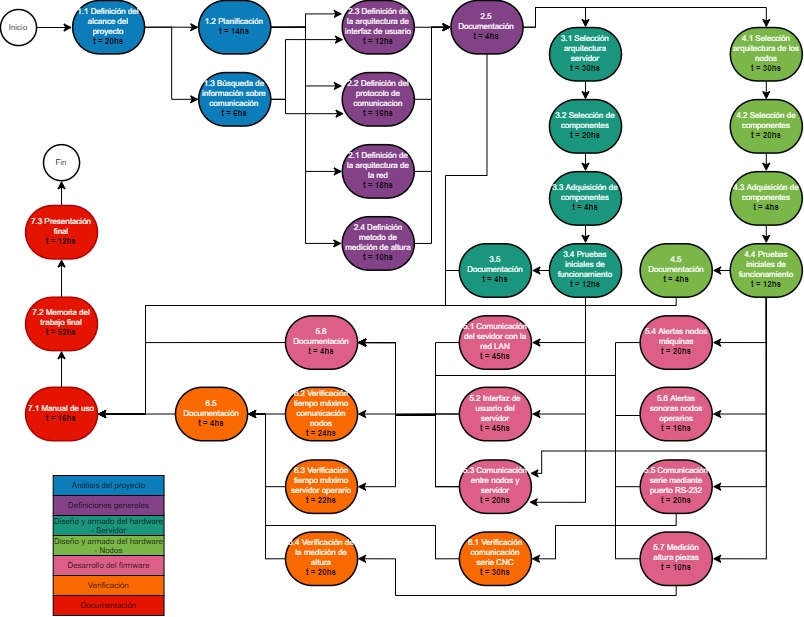
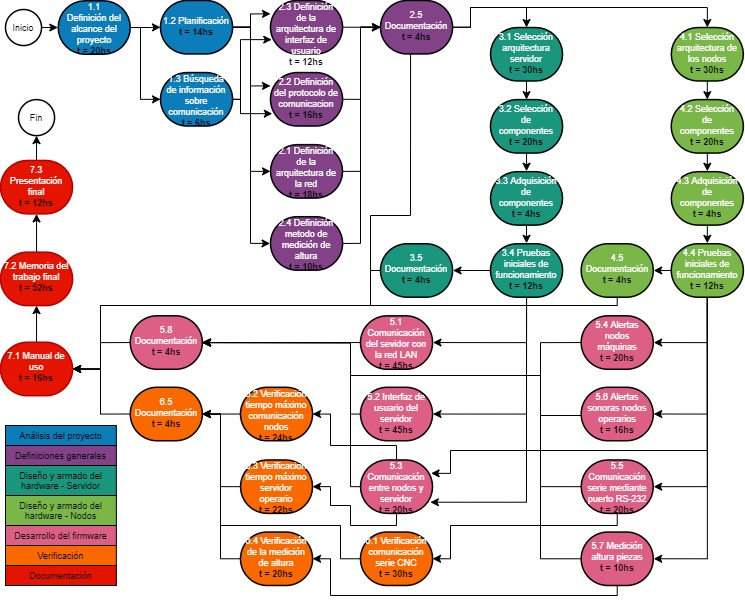
Se agrego hasta el punto 17

diff --git a/charter.tex b/charter.tex
@@ -67,7 +67,8 @@ Revisión & \multicolumn{1}{c|}{\cellcolor[HTML]{C0C0C0}Detalles de los cambios 
 1.2      & Se corrigió la descripción técnica\newline
            Se terminó el punto 6\newline
            Se agregaron historias de usuario & 23/03/2021 \\ \hline
-1.3      & Se agrego hasta el punto 11      & 30/03/2021  \\ \hline      
+1.3      & Se agregó hasta el punto 11      & 30/03/2021  \\ \hline
+1.4     & Se agregó hasta el punto 17       & 6/4/2021 \\ \hline
 \end{tabularx}
 \end{table}
 
@@ -84,7 +85,7 @@ Buenos Aires, \fechaInicioName
 
 \vspace{2cm}
 
-Por medio de la presente se acuerda con el Ing. \authorname\hspace{1px} que su Trabajo Final de la \degreename\hspace{1px} se titulará ``\ttitle'', consistirá esencialmente en el prototipo preliminar de una red de nodos, cada uno con una función específica, para reducir los tiempos muertos y mejorar el flujo de información dentro de una industria, y tendrá un presupuesto preliminar estimado de 600 hs de trabajo, con fecha de inicio \fechaInicioName\hspace{1px} y fecha de presentación pública \fechaFinalName.
+Por medio de la presente se acuerda con el Ing. \authorname\hspace{1px} que su Trabajo Final de la \degreename\hspace{1px} se titulará ``\ttitle'', consistirá esencialmente en el prototipo preliminar de una red de nodos, cada uno con una función específica, para reducir los tiempos muertos y mejorar el flujo de información dentro de una industria, y tendrá un presupuesto preliminar estimado de 600 hs de trabajo y u\$s 9035, con fecha de inicio \fechaInicioName\hspace{1px} y fecha de presentación pública \fechaFinalName.
 
 Se adjunta a esta acta la planificación inicial.
 
@@ -499,10 +500,10 @@ Descripción &
 \rowcolor[HTML]{C0C0C0} 
 \multirow{-2}{*}{\cellcolor[HTML]{C0C0C0}\begin{tabular}[c]{@{}c@{}}Código\\ WBS\end{tabular}} &
   \multirow{-2}{*}{\cellcolor[HTML]{C0C0C0}Nombre de la tarea} &
-  \authorname &
+  F. Meghinasso &
   \supname &
-  Matias Meghinasso &
-  \clientename \\ \hline
+  M. Meghinasso &
+  R. Meghinasso \\ \hline
 1 & Análisis del proyecto & P & C & - & S \\ \hline
 2 & Definiciones generales & P & C & - & - \\ \hline
 3.1 & Estudio y elección arquitectura servidor & P & C & S & - \\ \hline
@@ -538,31 +539,34 @@ Referencias:
 \section{12. Gestión de riesgos}
 \label{sec:riesgos}
 
-\begin{consigna}{red}
-a) Identificación de los riesgos (al menos cinco) y estimación de sus consecuencias:
- 
-Riesgo 1: detallar el riesgo (riesgo es algo que si ocurre altera los planes previstos)
+Riesgo 1: No cumplir con los plazos de entrega establecidos.
 \begin{itemize}
-\item Severidad (S): mientras más severo, más alto es el número (usar números del 1 al 10).\\
-Justificar el motivo por el cual se asigna determinado número de severidad (S).
-\item Probabilidad de ocurrencia (O): mientras más probable, más alto es el número (usar del 1 al 10).\\
-Justificar el motivo por el cual se asigna determinado número de (O). 
-\end{itemize}   
-
-Riesgo 2:
-\begin{itemize}
-\item Severidad (S): 
-\item Ocurrencia (O):
+    \item Severidad (S):7, se retrasaría la entrega de todo el trabajo.
+    \item Ocurrencia (O):3, la empresa esta interesada en que se termine el trabajo lo más rápido posible por lo que le permitirá al responsable emplear el tiempo que le sea necesario durante la jornada laboral.
 \end{itemize}
 
-Riesgo 3:
+Riesgo 2: Demoras en la adquisición de los componentes.
 \begin{itemize}
-\item Severidad (S): 
-\item Ocurrencia (O):
+    \item Severidad (S):8, sin los componentes necesarios se frena el proyecto completo.
+    \item Ocurrencia (O):3, los componentes necesarios no son tas específicos y se pueden conseguir reemplazos. 
+\end{itemize}
+Riesgo 3: Dificultades para establecer una comunicación inalámbrica debido al ruido electromagnético presente en la fábrica.
+\begin{itemize}
+    \item Severidad (S):10, sin la comunicación inalámbrica el proyecto se vuelve muy difícil de implementar.  
+    \item Ocurrencia (O):2, hoy en se utiliza una red vía \textit{Wi-Fi} y la misma no presenta mayores problemas.
+\end{itemize}
+Riesgo 4: No encontrar un método adecuado para estimar la cantidad de piezas en los cajones.
+\begin{itemize}
+    \item Severidad (S):5, la cantidad de piezas se podría sumar o restar de forma manual según corresponda.
+    \item Ocurrencia (O):4, el mercado ofrece muchas opciones diferentes para hacer este tipo de mediciones.
+\end{itemize}
+Riesgo 5: No tener disponibilidad de máquina para hacer las pruebas correspondientes.
+\begin{itemize}
+    \item Severidad (S):6, si no se dispone de una maquina se complica hacer las pruebas necesarias, en particular las de CNC.
+    \item Ocurrencia (O):6, por lo general las maquinas están ocupadas y el único momento que quedan disponibles es cuando se hacen los cambios de pieza.
 \end{itemize}
 
 
-b) Tabla de gestión de riesgos:      (El RPN se calcula como RPN=SxO)
 
 \begin{table}[htpb]
 \centering
@@ -570,55 +574,58 @@ b) Tabla de gestión de riesgos:      (El RPN se calcula como RPN=SxO)
 \hline
 \rowcolor[HTML]{C0C0C0} 
 Riesgo & S & O & RPN & S* & O* & RPN* \\ \hline
-       &   &   &     &    &    &      \\ \hline
-       &   &   &     &    &    &      \\ \hline
-       &   &   &     &    &    &      \\ \hline
-       &   &   &     &    &    &      \\ \hline
-       &   &   &     &    &    &      \\ \hline
+   No cumplir con los plazos de entrega establecidos   & 7  &  3 &  21   &    &    &      \\ \hline
+   Demoras en la adquisición de los componentes  & 8  & 3  &    24 &    &    &      \\ \hline
+   Dificultades para establecer una comunicación inalámbrica   & 10  & 2  & 20    &    &    &      \\ \hline
+   No encontrar un método adecuado para estimar la cantidad de piezas  & 5  & 4  &   20  &    &    &      \\ \hline
+     No tener disponibilidad de máquina para hacer las pruebas correspondientes  & 6  &  6 &    36 &  6  &  4  &   24   \\ \hline
 \end{tabularx}%
 \end{table}
 
-Criterio adoptado: 
-Se tomarán medidas de mitigación en los riesgos cuyos números de RPN sean mayores a...
+Se tomaran medidas de mitigación en los riesgos cuyo RPN sea mayor a 30.
 
-Nota: los valores marcados con (*) en la tabla corresponden luego de haber aplicado la mitigación.
-
-c) Plan de mitigación de los riesgos que originalmente excedían el RPN máximo establecido:
- 
-Riesgo 1: plan de mitigación (si por el RPN fuera necesario elaborar un plan de mitigación).
-  Nueva asignación de S y O, con su respectiva justificación:
-  - Severidad (S): mientras más severo, más alto es el número (usar números del 1 al 10).
-          Justificar el motivo por el cual se asigna determinado número de severidad (S).
-  - Probabilidad de ocurrencia (O): mientras más probable, más alto es el número (usar del 1 al 10).
-          Justificar el motivo por el cual se asigna determinado número de (O).
-
-Riesgo 2: plan de mitigación (si por el RPN fuera necesario elaborar un plan de mitigación).
- 
-Riesgo 3: plan de mitigación (si por el RPN fuera necesario elaborar un plan de mitigación).
-
-\end{consigna}
-
+Riesgo 5: Hacer las pruebas fuera de hora.
+\begin{itemize}
+    \item Severidad (S*):6, si no se dispone de una maquina se complica hacer las pruebas necesarias, en particular las de CNC.
+    \item Ocurrencia (O*):4, fuera de hora es mas fácil tener disponible una maquina.
+\end{itemize}
 
 \section{13. Gestión de la calidad}
 \label{sec:calidad}
 
-\begin{consigna}{red}
-Para cada uno de los requerimientos del proyecto indique:
-\begin{itemize} 
-\item Req \#1: copiar acá el requerimiento.
-
-Verificación y validación:
-
 \begin{itemize}
-\item Verificación para confirmar si se cumplió con lo requerido antes de mostrar el sistema al cliente. Detallar 
-\item Validación con el cliente para confirmar que está de acuerdo en que se cumplió con lo requerido. Detallar  
+    \item Req \#1.1: Los nodos deben ser grado IP64.
+    \begin{itemize}
+        \item Verificación: Se realizarán las pruebas correspondientes por la norma. 
+        \item Validación: Colocará los nodos en su lugar de trabajo y al cabo de un tiempo los abrirá para comprobar que siguen limpios por dentro. 
+    \end{itemize}
+    \item Req \#2.1:  Se tiene que conectar a la red LAN de la fábrica mediante WiFi/Ethernet.
+    \begin{itemize}
+        \item Verificación: Se conectará el equipo a una red LAN y se comprobará que sea visible desde una computadora. 
+        \item Validación: Se conectará a la red LAN de la fábrica y se comprobará que sea visible desde las computadora de la administración.
+    \end{itemize}
+    \item Req \#2.2: Debe tener una interfaz para poder configurar la asignación de tareas según la máquina, los parámetros para calcular el \textit{stock} y las alturas mínimas de los cajones de piezas. Además, se deben poder configurar los parámetros de la comunicación serie de los nodos CNC.
+    \begin{itemize}
+        \item Verificación: Se probará la interfaz y cada una de sus funciones viendo que se puedan cargar los parámetros y que los datos sean correctos.
+        \item Validación: Se configuraran una maquina y una cajón y se controlara  que los datos sean correctos.
+    \end{itemize}
+    \item Req \#2.3 y \#2.4: Tiempos de comunicación.
+    \begin{itemize}
+        \item Verificación: Se generan alertas de diferente tipo y se toman los tiempos.
+        \item Validación: Se comprueba el tiempo desde que se genera una alerta en planta hasta que se notifica en la administración. 
+    \end{itemize}
+    \item Req \#4.2: Deben poder subir y bajar archivos mediante una comunicación serie utilizando un puerto RS-232. La configuración va a depender del controlador de la máquina.
+    \begin{itemize}
+        \item Verificación: Se va a conectar el nodo a una máquina CNC y se probara la carga y descarga de un programa. 
+        \item Validación: Desde la administración se intentara cargar y descargar un programa de una máquina CNC.
+    \end{itemize}
+    \item Req \#5.1: Deben medir la altura de piezas de los cajones que tienen 45 cm de altura.
+    \begin{itemize}
+        \item Verificación: Se colocan un numero de piezas conocido en un cajón y se toma la lectura.  
+        \item Validación: Se pesa uno de los cajones en fábrica para estimar a cantidad de piezas y luego se mide con el nodo y se comparan las estimaciones.  
+    \end{itemize}
 \end{itemize}
 
-\end{itemize}
-
-Tener en cuenta que en este contexto se pueden mencionar simulaciones, cálculos, revisión de hojas de datos, consulta con expertos, mediciones, etc.
-
-\end{consigna}
 
 \section{14. Comunicación del proyecto}
 \label{sec:comunicaciones}
@@ -633,92 +640,60 @@ El plan de comunicación del proyecto es el siguiente:
 \multicolumn{6}{|c|}{\cellcolor[HTML]{C0C0C0}PLAN DE COMUNICACIÓN DEL PROYECTO}           \\ \hline
 \rowcolor[HTML]{C0C0C0} 
 ¿Qué comunicar? & Audiencia & Propósito & Frecuencia & Método de comunicac. & Responsable \\ \hline
-                &           &           &            &                      &             \\ \hline
-                &           &           &            &                      &             \\ \hline
-                &           &           &            &                      &             \\ \hline
-                &           &           &            &                      &             \\ \hline
-                &           &           &            &                      &             \\ \hline
+ Plan de trabajo  & Todos los interesados  &  Alcance del proyecto  &  Única vez   &  Presencial  & F. Meghinasso  \\ \hline
+Avances del proyecto   &   Director y R. Meghinasso  &  Informar el progreso  &  20 dias  & Virtual &  F. Meghinasso  \\ \hline
+Consultas   &  Director  & Sugerencias y despeje de dudas & 20 dias  &  Virtual & F. Meghinasso \\ \hline
+Fin del proyecto  & Todos los interesados & Resultados del proyecto  & Única vez & Presencial & F. Meghinasso \\ \hline
 \end{tabularx}
 \end{table}
 
 \section{15. Gestión de compras}
 \label{sec:compras}
 
-\begin{consigna}{red}
-En caso de tener que comprar elementos o contratar servicios:
-a) Explique con qué criterios elegiría a un proveedor.
-b) Redacte el Statement of Work correspondiente.
-\end{consigna}
+Federico Meghinasso será el encargado de realizar las compras necesarias para llevar a cabo el proyecto.
 
 \section{16. Seguimiento y control}
 \label{sec:seguimiento}
 
-\begin{consigna}{red}
-Para cada tarea del proyecto establecer la frecuencia y los indicadores con los se seguirá su avance y quién será el responsable de hacer dicho seguimiento y a quién debe comunicarse la situación (en concordancia con el Plan de Comunicación del proyecto).
 
-El indicador de avance tiene que ser algo medible, mejor incluso si se puede medir en \% de avance. Por ejemplo,se pueden indicar en esta columna cosas como ``cantidad de conexiones ruteadeas'' o ``cantidad de funciones implementadas'', pero no algo genérico y ambiguo como ``\%'', porque el lector no sabe porcentaje de qué cosa.
-
-\end{consigna}
-
-\begin{longtable}{|m{1cm}|m{3.5cm}|m{2.2cm}|m{2cm}|m{3cm}|m{1.5cm}|}
+\begin{table}[htpb]
+\begin{tabular}{|l|l|l|l|l|l|}
 \hline
 \rowcolor[HTML]{C0C0C0} 
-\multicolumn{6}{|c|}{\cellcolor[HTML]{C0C0C0}SEGUIMIENTO DE AVANCE}                                                                       \\ \hline
+\multicolumn{6}{|c|}{\cellcolor[HTML]{C0C0C0}{\color[HTML]{000000} SEGUIMIENTO DE AVANCE}}                                                                                                                                                                                                                                                                                                                                                                                                                                                          \\ \hline
 \rowcolor[HTML]{C0C0C0} 
-Tarea del WBS 			& Indicador de avance & Frecuencia de reporte & Resp. de seguimiento & Persona a ser informada & Método de comunic. \\ \hline
-\endfirsthead
-
-\hline
-\rowcolor[HTML]{C0C0C0} 
-\multicolumn{6}{c}{\cellcolor[HTML]{C0C0C0}SEGUIMIENTO DE AVANCE}                                                                       \\ \hline
-\rowcolor[HTML]{C0C0C0} 
-Tarea del WBS 			& Indicador de avance & Frecuencia de reporte & Resp. de seguimiento & Persona a ser informada & Método de comunic. \\ \hline
-\endhead
-
-\multicolumn{6}{c}{Continúa}
-\endfoot
-
-\endlastfoot
-
-1.1	& Fecha de inicio  & Única vez al comienzo & \authorname & \clientename, \supname & email \\ \hline
-2.1	& Avance de las subtareas  & Mensual mientras dure la tarea & \authorname & \clientename, \supname & email \\ \hline
-
-\end{longtable}
-
-\begin{table}[!htpb]
-\centering
-%\begin{tabularx}{\linewidth}{@{}|X|X|X|X|X|X|@{}}
-\begin{tabularx}{\linewidth}{@{}|X|C{2.5cm}|C{3cm}|C{2cm}|C{2cm}|C{2.5cm}|@{}}
-\hline
-\rowcolor[HTML]{C0C0C0} 
-\multicolumn{6}{|c|}{\cellcolor[HTML]{C0C0C0}SEGUIMIENTO DE AVANCE}                                                                       \\ \hline
-\rowcolor[HTML]{C0C0C0} 
-Tarea del WBS & Indicador de avance & Frecuencia de reporte & Resp. de seguimiento & Persona a ser informada & Método de comunic. \\ \hline
- &  &  &  &  &  \\ \hline
- &  &  &  &  &  \\ \hline
- &  &  &  &  &  \\ \hline
- &  &  &  &  &  \\ \hline
- &  &  &  &  &  \\ \hline
-\end{tabularx}%
-%}
+{\color[HTML]{000000} \begin{tabular}[c]{@{}l@{}}Tarea\\ del\\ WBS\end{tabular}} & {\color[HTML]{000000} \begin{tabular}[c]{@{}l@{}}Indicador de \\ avance\end{tabular}} & {\color[HTML]{000000} \begin{tabular}[c]{@{}l@{}}Frecuencia \\ de reporte\end{tabular}}      & {\color[HTML]{000000} \begin{tabular}[c]{@{}l@{}}Resp. de \\ seguimiento\end{tabular}} & {\color[HTML]{000000} \begin{tabular}[c]{@{}l@{}}Persona a ser\\ informada\end{tabular}} & {\color[HTML]{000000} \begin{tabular}[c]{@{}l@{}}Método\\ de\\ comunic.\end{tabular}} \\ \hline
+1.1 - 1.3                                                                        & \begin{tabular}[c]{@{}l@{}}Reporte de \\ definición\end{tabular}                      & \begin{tabular}[c]{@{}l@{}}1 vez por \\ semana mientras \\ duren las tareas.\end{tabular}    & \begin{tabular}[c]{@{}l@{}}Federico \\ Meghinasso\end{tabular}                         & \begin{tabular}[c]{@{}l@{}}Director\\ R. Meghinasso\end{tabular}                         & e-mail                                                                                \\ \hline
+2.1 - 2.4                                                                        & \begin{tabular}[c]{@{}l@{}}Reporte de \\ definición\end{tabular}                      & \begin{tabular}[c]{@{}l@{}}1 vez por \\ semana mientras \\ duren las tareas.\end{tabular}    & \begin{tabular}[c]{@{}l@{}}Federico \\ Meghinasso\end{tabular}                         & Director                                                                                 & e-mail                                                                                \\ \hline
+3.1                                                                              & \begin{tabular}[c]{@{}l@{}}Reporte de \\ definición\end{tabular}                      & 1 vez                                                                                        & \begin{tabular}[c]{@{}l@{}}Federico \\ Meghinasso\end{tabular}                         & Director                                                                                 & e-mail                                                                                \\ \hline
+3.2 - 3.4                                                                        & Informe                                                                               & \begin{tabular}[c]{@{}l@{}}1 vez por \\ semana mientras \\ duren las tareas.\end{tabular}    & \begin{tabular}[c]{@{}l@{}}Federico \\ Meghinasso\end{tabular}                         & Director                                                                                 & e-mail                                                                                \\ \hline
+4.1                                                                              & \begin{tabular}[c]{@{}l@{}}Reporte de \\ definición\end{tabular}                      & 1 vez                                                                                        & \begin{tabular}[c]{@{}l@{}}Federico \\ Meghinasso\end{tabular}                         & Director                                                                                 & e-mail                                                                                \\ \hline
+4.2 - 4.4                                                                        & Informe                                                                               & \begin{tabular}[c]{@{}l@{}}1 vez por \\ semana mientras \\ duren las tareas.\end{tabular}    & \begin{tabular}[c]{@{}l@{}}Federico \\ Meghinasso\end{tabular}                         & Director                                                                                 & e-mail                                                                                \\ \hline
+5.1 - 5.7                                                                        & \begin{tabular}[c]{@{}l@{}}Informe y \\ prototipo\end{tabular}                        & \begin{tabular}[c]{@{}l@{}}1 vez cada 2\\ semanas mientras \\ duren las tareas.\end{tabular} & \begin{tabular}[c]{@{}l@{}}Federico \\ Meghinasso\end{tabular}                         & \begin{tabular}[c]{@{}l@{}}Director\\ M. Meghinasso\end{tabular}                         & e-mail                                                                                \\ \hline
+6.1 - 6.4                                                                        & \begin{tabular}[c]{@{}l@{}}Informe y \\ prototipo\end{tabular}                        & \begin{tabular}[c]{@{}l@{}}1 vez cada 2\\ semanas mientras \\ duren las tareas.\end{tabular} & \begin{tabular}[c]{@{}l@{}}Federico \\ Meghinasso\end{tabular}                         & \begin{tabular}[c]{@{}l@{}}Director\\ M. Meghinasso\\ R. Meghinasso\end{tabular}         & e-mail                                                                                \\ \hline
+7.1                                                                              & Documento                                                                             & 1 vez                                                                                        & \begin{tabular}[c]{@{}l@{}}Federico \\ Meghinasso\end{tabular}                         & \begin{tabular}[c]{@{}l@{}}M. Meghinasso\\ R. Meghinasso\end{tabular}                    & e-mail                                                                                \\ \hline
+7.2                                                                              & Documento                                                                             & 1 vez                                                                                        & \begin{tabular}[c]{@{}l@{}}Federico \\ Meghinasso\end{tabular}                         & \begin{tabular}[c]{@{}l@{}}Director\\ M. Meghinasso\\ R. Meghinasso\end{tabular}         & e-mail                                                                                \\ \hline
+\end{tabular}
 \end{table}
+
+
+
+
+
 
 \section{17. Procesos de cierre}    
 \label{sec:cierre}
 
-\begin{consigna}{red}
-Establecer las pautas de trabajo para realizar una reunión final de evaluación del proyecto, tal que contemple las siguientes actividades:
-
 \begin{itemize}
-\item Pautas de trabajo que se seguirán para analizar si se respetó el Plan de Proyecto original:
- - Indicar quién se ocupará de hacer esto y cuál será el procedimiento a aplicar. 
-\item Identificación de las técnicas y procedimientos útiles e inútiles que se utilizaron, y los problemas que surgieron y cómo se solucionaron:
- - Indicar quién se ocupará de hacer esto y cuál será el procedimiento para dejar registro.
-\item Indicar quién organizará el acto de agradecimiento a todos los interesados, y en especial al equipo de trabajo y colaboradores:
-  - Indicar esto y quién financiará los gastos correspondientes.
+\item Pautas de trabajo que se seguirán para analizar si se respetó el Plan de Proyecto original a cargo del Ing. Federico Meghinasso:
+\begin{itemize}
+    \item Plazo: Se armara un tabla con las tareas y lo tiempos reales y previstos.
+    \item Especificaciones: Se compararan las especificaciones reales del proyecto final con las especificaciones planificadas. Si estas no coinciden se hará una revisión de porque no se cumplieron.
+\end{itemize}
+\item Identificación de las técnicas y procedimientos útiles e inútiles que se utilizaron, y los problemas que surgieron y cómo se solucionaron, a cargo del Ing. Federico Meghinasso.
+\item El Ing. Federico Meghinasso reunirá a todos los colaboradores en la fábrica para agradecerles e invitarlos a un almuerzo a costa suya.
 \end{itemize}
 
-\end{consigna}
 
 
 \end{document}
